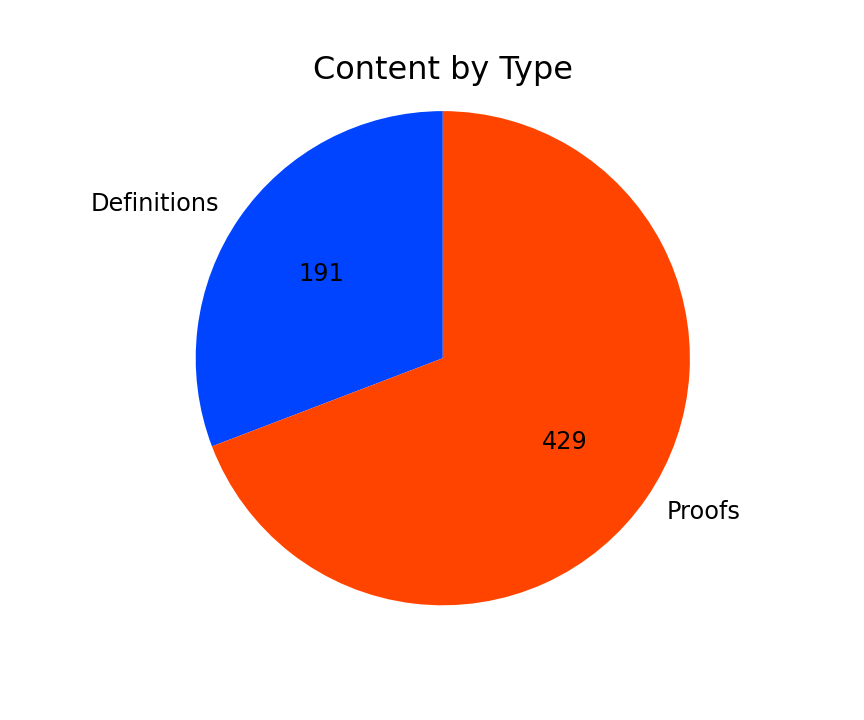
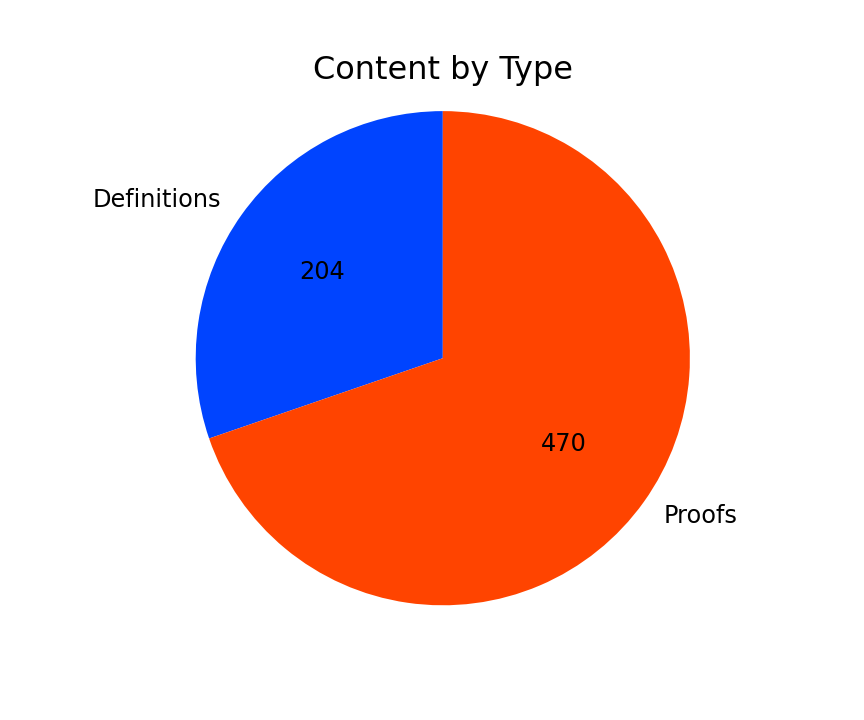
edited "BookTools"
The function "get_all_items" in "BookTools.py" was adapted to account for the new "ToC.md". Additionally, "display_content.py" was rerun.

diff --git a/BookTools.py b/BookTools.py
@@ -9,7 +9,7 @@ Author: Joram Soch, BCCN Berlin
 E-Mail: joram.soch@bccn-berlin.de
 
 First edit: 2020-04-14 16:35:00
- Last edit: 2024-07-18 10:23:00
+ Last edit: 2024-09-27 15:32:00
 """
 
 
@@ -56,17 +56,17 @@ def get_all_items(toc_txt):
     for entry in toc_txt:
         # If there is a new chapter
         #---------------------------------------------------------------------#
-        if entry.count('.') == 0 and entry.find('<h3>') > -1:
+        if entry.count('.') == 0 and entry.find('<h3 ') > -1:
             num_sect  = 0
             num_chap  = num_chap + 1
-            curr_chap = entry[entry.find('<h3>')+4:entry.find('</h3>')]
+            curr_chap = entry[entry.find('">')+2:entry.find('</h3>')]
             curr_chap = curr_chap[curr_chap.find(': ')+2:]
         # If there is a new section
         #---------------------------------------------------------------------#
-        if entry.count('.') == 1 and entry.find(str(num_sect+1) + '. ') > -1:
+        if entry.count('.') == 1 and entry.find('<p ') > -1:
             num_ssec  = 0
             num_sect  = num_sect + 1        
-            curr_sect = entry[entry.find('. ')+2:entry.find('\n')]
+            curr_sect = entry[entry.find('">')+2:entry.find('</p>')]
         # If there is a new subsection
         #---------------------------------------------------------------------#
         if entry.count('.') == 2 and entry.find(str(num_sect) + '.' + str(num_ssec+1) + '. ') > -1:  

diff --git a/create_proof.py b/create_proof.py
@@ -15,10 +15,10 @@ First edit: 2023-09-01 13:40:00
 
 # Specify proofs
 #-----------------------------------------------------------------------------#
-temp_proof = 'prob-ind'
+temp_proof = 'corr-range'
 # This is the Markdown (.md) document in the StatProofBook which should be used
 # as a template for your proof. It should be in repository sub-folder "/P/".
-src_proof  = 'ind-self'
+src_proof  = 'corr-ind'
 # This is the LaTeX (.tex) document in src_dir which contains your proof.
 # LaTeX should be between "\begin{document}" and "\end{document}".
 src_dir    =r'C:\Users\sochj\OvGUcloud\Projekte\StatProofBook\Submissions\JoramSoch\Proofs'

diff --git a/create_def.py b/create_def.py
@@ -15,10 +15,10 @@ First edit: 2023-09-22 10:55:00
 
 # Specify definitions
 #-----------------------------------------------------------------------------#
-temp_def = 'rexp'
+temp_def = 'dist'
 # This is the Markdown (.md) document in the StatProofBook which should be used
 # as a template for your definition. It should be in repository sub-folder "/D/".
-src_def  = 'data'
+src_def  = 'para'
 # This is the LaTeX (.tex) document in src_dir which contains your definition.
 # LaTeX should be between "\begin{document}" and "\end{document}".
 src_dir  =r'C:\Users\sochj\OvGUcloud\Projekte\StatProofBook\Submissions\JoramSoch\Definitions'
